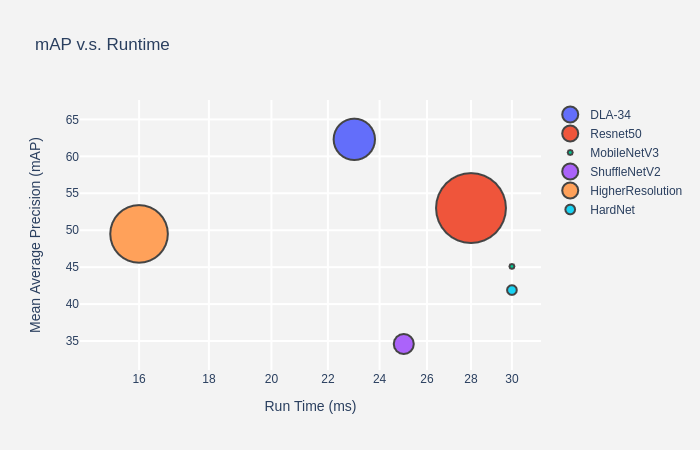
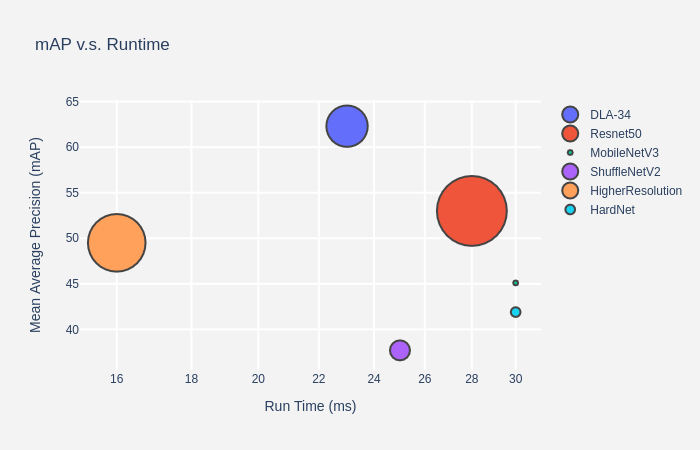
update performance of shufflenet

diff --git a/readme/plot_speed_accuracy.py b/readme/plot_speed_accuracy.py
@@ -12,7 +12,7 @@ continent_data = {}
 continent_data['DLA-34'] = {'map':[62.3], 'speed':[23], 'size':82.7/2}
 continent_data['Resnet50'] = {'map':[53.0], 'speed':[28], 'size':139.8/2}
 continent_data['MobileNetV3'] = {'map':[45.1], 'speed':[30], 'size':9.7/2}
-continent_data['ShuffleNetV2'] = {'map':[34.6], 'speed':[25], 'size':40./2}
+continent_data['ShuffleNetV2'] = {'map':[37.7], 'speed':[25], 'size':40./2}
 continent_data['HigherResolution'] = {'map':[49.5], 'speed':[16], 'size':115.2/2}
 continent_data['HardNet'] = {'map':[41.9], 'speed':[30], 'size':19.3/2}
 
@@ -26,7 +26,6 @@ for continent_name, continent in continent_data.items():
         name=continent_name, text='model performance',
         marker_size=continent['size'],
         ))
-
 # Tune marker appearance and layout
 fig.update_traces(mode='markers', marker=dict(sizemode='area',
                                               sizeref=sizeref, line_width=2))

diff --git a/README.md b/README.md
@@ -12,7 +12,7 @@ multi person pose estimation using center point detection:
 |DLA-34        | 62.3      |    23      |  - |[model](https://drive.google.com/open?id=1OkHjjViB0dzbuicdtIam-YcoT0sYpmjP)  |
 |Resnet-50     | 53.0      |    28      |  33 |[model](https://drive.google.com/open?id=190wRY7V2qPFf57WAreVAQrN1LPzjeM9e)  |
 |MobilenetV3   | 45.1      |    30      |  - |[model](https://drive.google.com/open?id=1VdBEh8XisujRZ4zvxLcvJ-R8dtY3CC-x)  |
-|ShuffleNetV2  | 34.6      |    25      |  - |[model](https://drive.google.com/open?id=12ENL9Qpsp__qHN5mb5E-Gex0sVbGeaD9)  |
+|ShuffleNetV2  | 37.7      |    25      |  - |[model](https://drive.google.com/open?id=12ENL9Qpsp__qHN5mb5E-Gex0sVbGeaD9)  |
 |[High Resolution](https://github.com/HRNet/Higher-HRNet-Human-Pose-Estimation)| 49.5     |    16      |  - |[model](https://drive.google.com/open?id=1gKcfMQx2_lRLTQhzvtRQKvJUkPLS2Lpn)  |
 |[HardNet]()| 43.5    |    30        | -  |[model](https://drive.google.com/open?id=12JezItTw5rXoQ9dwxRBf4mn8iqHYgNTd)  |
 
